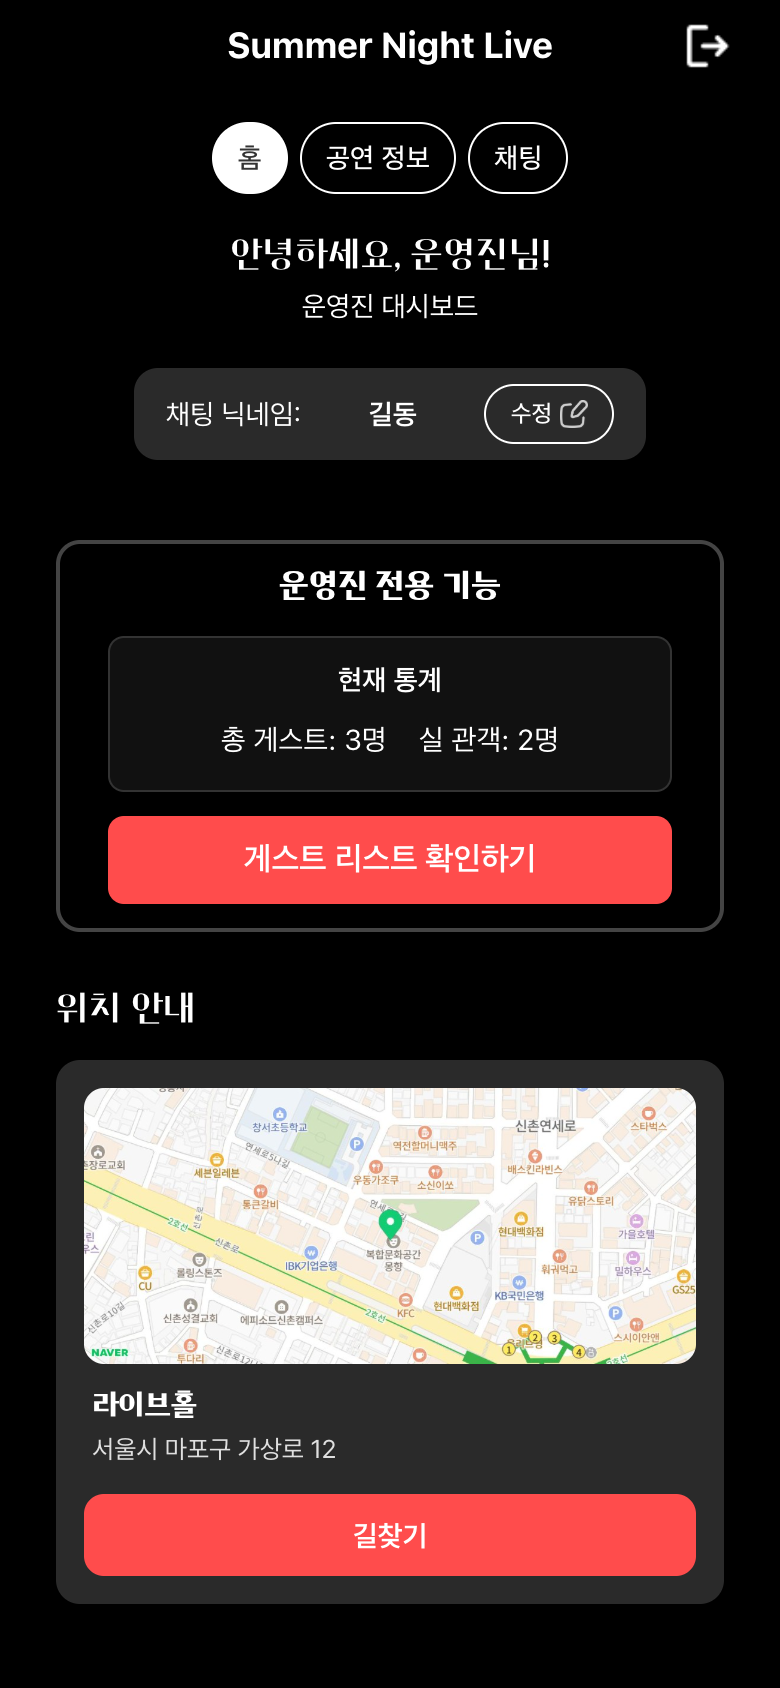
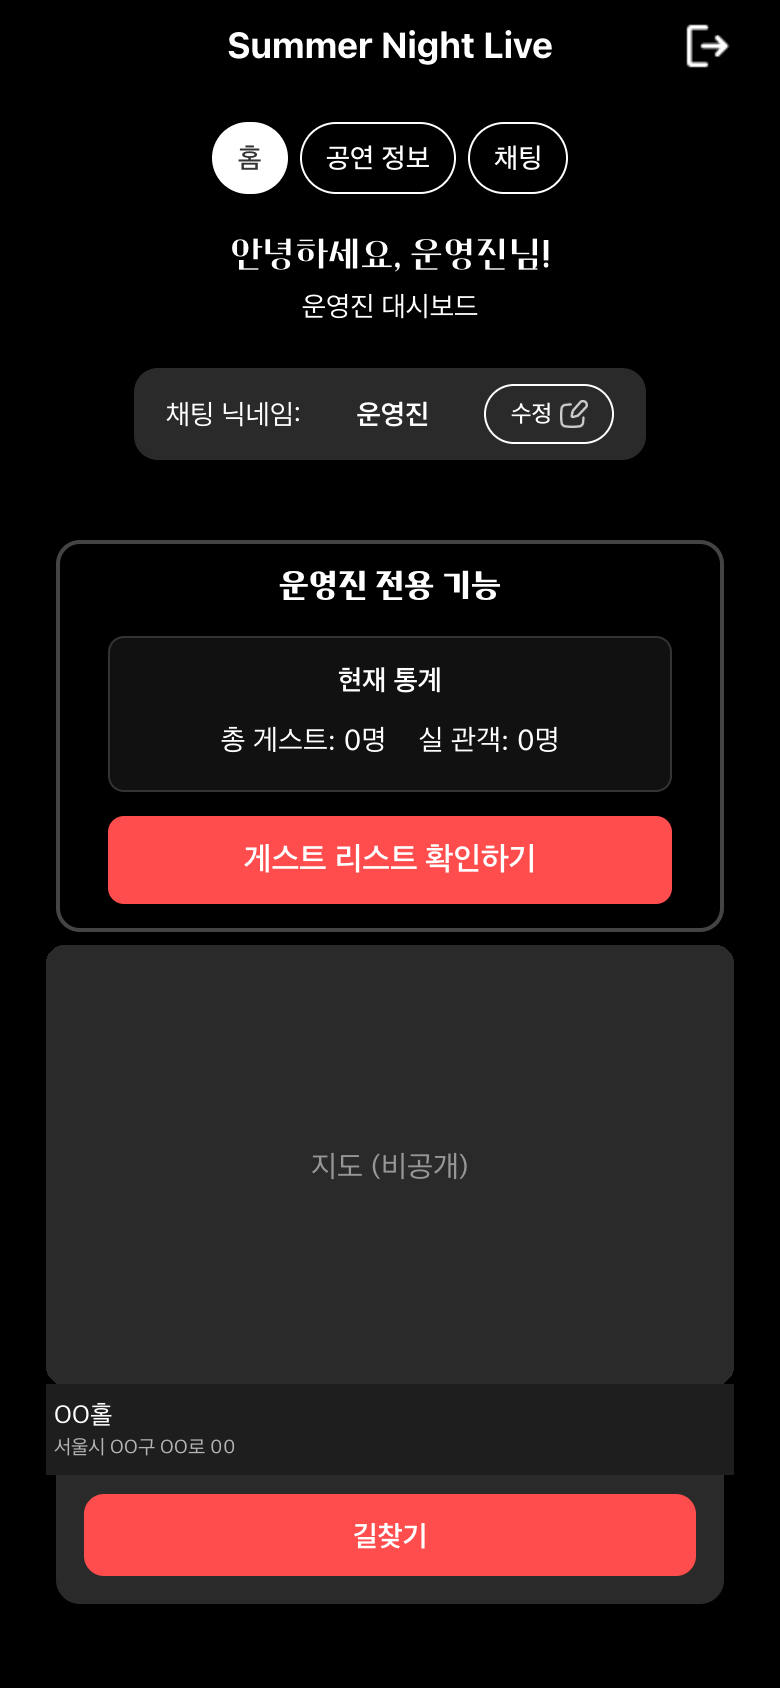
docs: 공연장 이름·주소 더미화 및 지도 비공개 처리

diff --git a/README.md b/README.md
@@ -2,7 +2,7 @@
 
 인디/대학 밴드 공연의 **예매 → 입금 확인 → 입장번호·티켓 → 당일 경험(셋리스트·채팅·방명록·주류)** 을 한 웹앱으로 잇는 운영·관객 허브입니다.
 
-실제 공연 적용 사례: **Summer Night Live** (2026.08.15 · 라이브홀)
+실제 공연 적용 사례: **Summer Night Live** (2026.08.15 · OO홀)
 
 | | |
 |---|---|
@@ -153,7 +153,7 @@ flowchart LR
 |------|-----|
 | 공연명 | **Summer Night Live** |
 | 일시 | 2026년 8월 15일 (토) |
-| 장소 | 라이브홀 (서울시 마포구 가상로 12) |
+| 장소 | OO홀 (서울시 OO구 OO로 00) |
 | 좌석 | 자유석 |
 | 셋리스트 | **24곡** |
 | 공연진(운영진 포함 명단) | **38명** |
